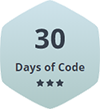
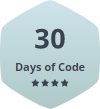
30 Days of Code: 4 stars badge

diff --git a/30-days-of-code/README.md b/30-days-of-code/README.md
@@ -1,6 +1,6 @@
 ## 30 Days of Code
 
-![30 Days of Code](https://raw.githubusercontent.com/charlesartbr/hackerrank-python/master/badges/30-days-of-code.png?s=3)
+![30 Days of Code](https://raw.githubusercontent.com/charlesartbr/hackerrank-python/master/badges/30-days-of-code.png?s=4)
 
 ### Solved problems:
 

diff --git a/README.md b/README.md
@@ -11,7 +11,7 @@ https://www.hackerrank.com/charlesartbr
 
 ![Python](badges/python.png?s=5)
 ![10 Days of Statistics](badges/10-days-of-statistics.png?s=5)
-![30 Days of Code](badges/30-days-of-code.png?s=3)
+![30 Days of Code](badges/30-days-of-code.png?s=4)
 
 ### **165** solved problems:
 
